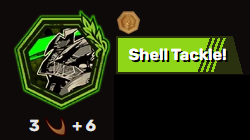
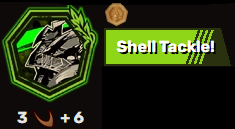
Add files via upload
Slightly changed all the skill_description images and made the selected skills stay selected while meursault is moving.

diff --git a/main.py b/main.py
@@ -93,8 +93,8 @@ meursault_s1 = AttackSkill(25, 25, "S1", "Meursault ")
 meursault_s2 = AttackSkill(25, 285, "S2", "Meursault ")
 meursault_s3 = AttackSkill(25, 545, "S3", "Meursault ")
 # Per tuple, the attributes go (coins, coin_power, base_power)
-# First tuple in the tuple is s1, second is s2, third is s3
-meursault_skills_attributes = ((2, 4, 3), (1, 9, 6), (4, 2, 4))
+# First list in the tuple is s1, second is s2, third is s3
+meursault_skills_attributes = ([2, 4, 3], [1, 9, 6], [4, 2, 4])
 
 trash_crab = TrashCrab(800, 450)
 trash_crab_gwah = AttackSkill(1075, 20, "S1", "Trash Crab ")
@@ -102,8 +102,8 @@ trash_crab_gwaaah = AttackSkill(1075, 195, "S2", "Trash Crab ")
 trash_crab_shell_tackle = AttackSkill(1075, 370, "S3", "Trash Crab ")
 trash_crab_foaming = AttackSkill(1075, 545, "S4", "Trash Crab ")
 # Per tuple, the attributes go (coins, coin_power, base_power)
-# First tuple in the tuple is Gwah, second is Gwaaah, third is Shell tackle, fourth is Foaming
-trash_crab_skill_attributes = ((2, 2, 2), (3, 2, 3), (1, 6, 3), (1, 7, 4))
+# First list in the tuple is Gwah, second is Gwaaah, third is Shell tackle, fourth is Foaming
+trash_crab_skills_attributes = ([2, 2, 2], [3, 2, 3], [1, 6, 3], [1, 7, 4])
 
 meursault_skill_description_render = [False, False, False]
 trash_crab_skill_description_render = [False, False, False, False]
@@ -132,12 +132,15 @@ while run:
         if combat_start is False:
             if meursault_s1.rect.collidepoint(pygame.mouse.get_pos()):
                 meursault_skill_description_render[0] = True
+                meursault_selected_skill_attributes = meursault_skills_attributes[0]
 
-            if meursault_s2.rect.collidepoint(pygame.mouse.get_pos()):
+            elif meursault_s2.rect.collidepoint(pygame.mouse.get_pos()):
                 meursault_skill_description_render[1] = True
+                meursault_selected_skill_attributes = meursault_skills_attributes[1]
 
-            if meursault_s3.rect.collidepoint(pygame.mouse.get_pos()):
+            elif meursault_s3.rect.collidepoint(pygame.mouse.get_pos()):
                 meursault_skill_description_render[2] = True
+                meursault_selected_skill_attributes = meursault_skills_attributes[2]
 
         # Mouse hover-over detection with trash crab skills
         # first is gwah, second is gwaaah, third is shell tackle, fourth is foaming.
@@ -146,15 +149,19 @@ while run:
         if combat_start is False:
             if trash_crab_gwah.rect.collidepoint(pygame.mouse.get_pos()):
                 trash_crab_skill_description_render[0] = True
+                trash_crab_selected_skill_attributes = trash_crab_skills_attributes[0]
 
-            if trash_crab_gwaaah.rect.collidepoint(pygame.mouse.get_pos()):
+            elif trash_crab_gwaaah.rect.collidepoint(pygame.mouse.get_pos()):
                 trash_crab_skill_description_render[1] = True
+                trash_crab_selected_skill_attributes = trash_crab_skills_attributes[1]
 
-            if trash_crab_shell_tackle.rect.collidepoint(pygame.mouse.get_pos()):
+            elif trash_crab_shell_tackle.rect.collidepoint(pygame.mouse.get_pos()):
                 trash_crab_skill_description_render[2] = True
+                trash_crab_selected_skill_attributes = trash_crab_skills_attributes[2]
 
-            if trash_crab_foaming.rect.collidepoint(pygame.mouse.get_pos()):
+            elif trash_crab_foaming.rect.collidepoint(pygame.mouse.get_pos()):
                 trash_crab_skill_description_render[3] = True
+                trash_crab_selected_skill_attributes = trash_crab_skills_attributes[3]
 
         if event.type == pygame.MOUSEBUTTONDOWN:
             if event.button == 1:
@@ -173,10 +180,9 @@ while run:
                 if combat_starter.rect.collidepoint(event.pos) and combat_ready is True:
                     combat_start = True
                     combat_ready = False
-                    meursault_skill_clicked = False
-                    trash_crab_skill_clicked = False
-
                     meursault.switch_image(1)
+                    clash_calculate(0, meursault_selected_skill_attributes, 0, trash_crab_selected_skill_attributes)
+
         if event.type == pygame.QUIT:  # If user clicked close
             run = False
 
@@ -224,7 +230,7 @@ while run:
             if trash_crab_skill_description_render[i] is True:
                 screen.blit(pygame.image.load("Images/Trash Crab S" + str(i + 1) + " Description.png"), (800, 50))
 
-    if meursault_skill_clicked is True and trash_crab_skill_clicked is True:
+    if (meursault_skill_clicked is True and trash_crab_skill_clicked is True) and combat_start is False:
         combat_ready = True
         screen.blit(combat_starter.image, combat_starter.rect)
 
